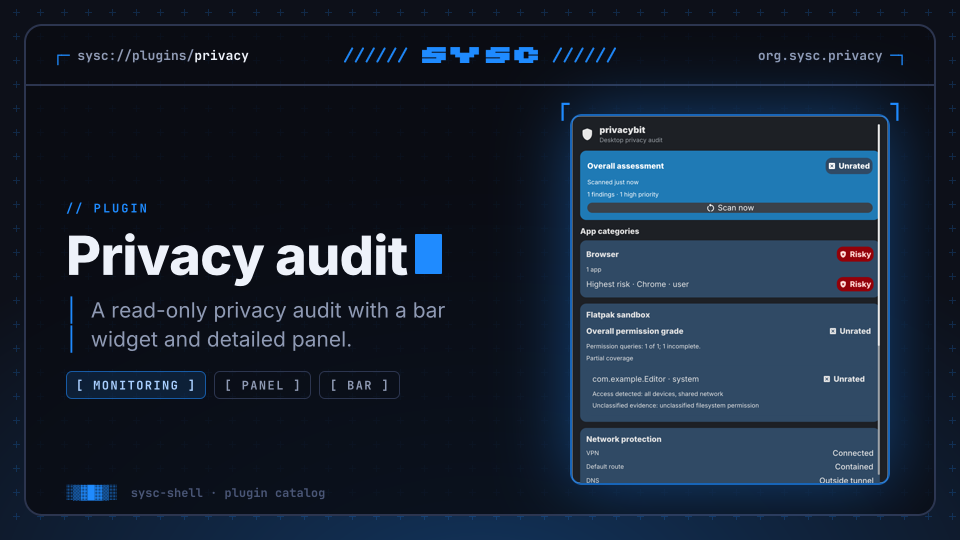
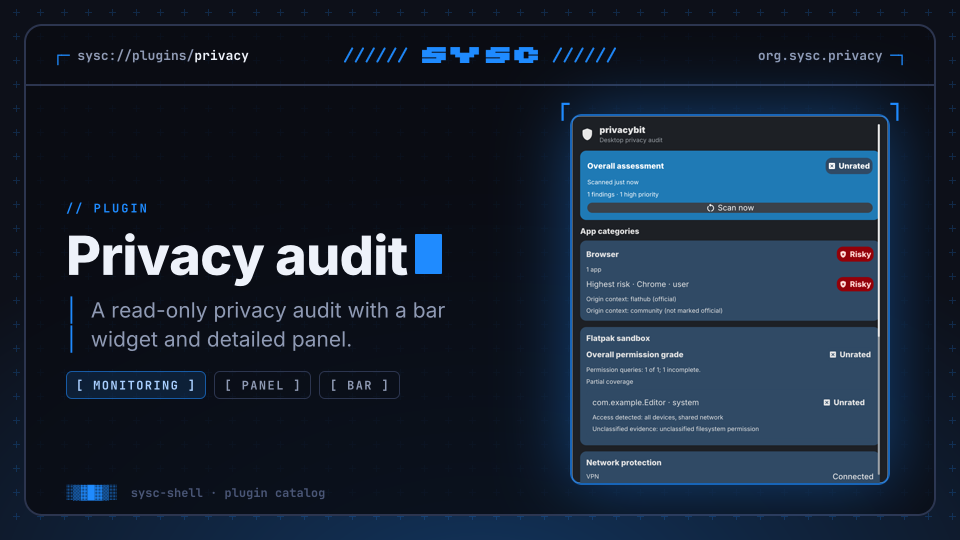
feat(privacy): show origin context

Changed region(s): [[0.5938, 0.5333, 0.9375, 0.9185], [0.8438, 0.6519, 0.9062, 0.7111]]

diff --git a/plugins/privacy/snapshot_test.go b/plugins/privacy/snapshot_test.go
@@ -9,6 +9,7 @@ import (
 	"strings"
 	"testing"
 	"time"
+	"unicode/utf8"
 )
 
 func TestParseAuditOutputBoundsListsAndPreservesUnknownTelemetry(t *testing.T) {
@@ -79,6 +80,92 @@ func TestParseAuditOutputBoundsListsAndPreservesUnknownTelemetry(t *testing.T) {
 	}
 }
 
+func TestParseAuditOutputProjectsBoundedOrigins(t *testing.T) {
+	const maxOrigins = 8
+	const maxOriginBytes = 80
+	type inputOrigin struct {
+		Source   string `json:"source"`
+		Official bool   `json:"official"`
+	}
+	origins := []inputOrigin{
+		{Source: "alpha", Official: true},
+		{Source: "alpha", Official: true},
+		{Source: "alpha", Official: false},
+		{Source: "repo\nname"},
+	}
+	for i := range 8 {
+		origins = append(origins, inputOrigin{Source: fmt.Sprintf("repo-%02d", i), Official: true})
+	}
+	origins = append(origins, inputOrigin{Source: "0" + strings.Repeat("界", 40)})
+	encodedOrigins, err := json.Marshal(origins)
+	if err != nil {
+		t.Fatal(err)
+	}
+	input := fmt.Sprintf(`{"t":"done","snapshot":{"schema":1,"available":true,"generated_at":"2026-10-23T10:00:00Z","overall":{"grade":"green"},"categories":[{"id":"browser","name":"Browser","grade":"green","installed":[{"id":"brave-origin","name":"Brave Origin","grade":"green","origins":%s,"origins_shown":12,"origins_total":12}]}]}}`, encodedOrigins)
+	snapshot, err := ParseAuditOutput([]byte(input))
+	if err != nil {
+		t.Fatal(err)
+	}
+	encoded, err := json.Marshal(snapshot)
+	if err != nil {
+		t.Fatal(err)
+	}
+	var got struct {
+		Categories []struct {
+			Installed []struct {
+				Origins   []inputOrigin `json:"origins"`
+				Shown     int           `json:"origins_shown"`
+				Total     int           `json:"origins_total"`
+				Truncated bool          `json:"origins_truncated"`
+			} `json:"installed"`
+		} `json:"categories"`
+	}
+	if err := json.Unmarshal(encoded, &got); err != nil {
+		t.Fatal(err)
+	}
+	app := got.Categories[0].Installed[0]
+	if len(app.Origins) != maxOrigins || app.Shown != maxOrigins || app.Total != 12 || !app.Truncated {
+		t.Fatalf("origin projection = %+v, want %d shown of 12 and truncated", app, maxOrigins)
+	}
+	if !strings.HasPrefix(app.Origins[0].Source, "0") || !utf8.ValidString(app.Origins[0].Source) || len(app.Origins[0].Source) > maxOriginBytes {
+		t.Fatalf("long origin was not safely bounded: %q (%d bytes)", app.Origins[0].Source, len(app.Origins[0].Source))
+	}
+	foundSanitized := false
+	alphaStatuses := map[bool]bool{}
+	for _, origin := range app.Origins {
+		if origin.Source == "repo name" {
+			foundSanitized = true
+		}
+		if origin.Source == "alpha" {
+			alphaStatuses[origin.Official] = true
+		}
+		if !utf8.ValidString(origin.Source) || len(origin.Source) > maxOriginBytes || strings.ContainsAny(origin.Source, "\n\r\x1b") {
+			t.Errorf("unsafe origin source %q (%d bytes)", origin.Source, len(origin.Source))
+		}
+	}
+	if !foundSanitized {
+		t.Fatalf("newline in origin source was not sanitized: %+v", app.Origins)
+	}
+	if !alphaStatuses[true] || !alphaStatuses[false] {
+		t.Fatalf("origin status variants collapsed: %+v", app.Origins)
+	}
+}
+
+func TestParseAuditOutputAcceptsLegacyAppWithoutOriginContext(t *testing.T) {
+	input := `{"t":"done","snapshot":{"schema":1,"available":true,"generated_at":"2026-10-23T10:00:00Z","overall":{"grade":"green"},"categories":[{"id":"browser","name":"Browser","grade":"green","installed":[{"id":"firefox","name":"Firefox","grade":"green"}]}]}}`
+	snapshot, err := ParseAuditOutput([]byte(input))
+	if err != nil {
+		t.Fatal(err)
+	}
+	encoded, err := json.Marshal(snapshot)
+	if err != nil {
+		t.Fatal(err)
+	}
+	if strings.Contains(string(encoded), `"origins"`) {
+		t.Fatalf("legacy app without provenance gained an origin: %s", encoded)
+	}
+}
+
 func TestParseAuditOutputBoundsFlatpakSandboxEvidence(t *testing.T) {
 	labels := make([]string, maxSandboxEvidence+2)
 	for i := range labels {
@@ -135,6 +222,7 @@ func TestParseAuditOutputRejectsInvalidAndFutureSnapshots(t *testing.T) {
 		"invalid grade":                              `{"t":"done","snapshot":{"schema":1,"available":true,"generated_at":"2026-10-20T12:00:00Z","overall":{"grade":"perfect"}}}`,
 		"invalid sandbox grade":                      `{"t":"done","snapshot":{"schema":1,"available":true,"generated_at":"2026-10-20T12:00:00Z","overall":{"grade":"unknown"},"sandbox":{"applicable":true,"grade":"perfect"}}}`,
 		"invalid sandbox app grade":                  `{"t":"done","snapshot":{"schema":1,"available":true,"generated_at":"2026-10-20T12:00:00Z","overall":{"grade":"unknown"},"sandbox":{"applicable":true,"grade":"unknown","apps":[{"id":"com.example.App","scope":"user","grade":"perfect"}]}}}`,
+		"negative app origin count":                  `{"t":"done","snapshot":{"schema":1,"available":true,"generated_at":"2026-10-20T12:00:00Z","overall":{"grade":"green"},"categories":[{"id":"browser","name":"Browser","grade":"green","installed":[{"id":"firefox","name":"Firefox","grade":"green","origins_total":-1}]}]}}`,
 		"negative sandbox count":                     `{"t":"done","snapshot":{"schema":1,"available":true,"generated_at":"2026-10-20T12:00:00Z","overall":{"grade":"unknown"},"sandbox":{"applicable":true,"grade":"unknown","apps_total":-1}}}`,
 		"green sandbox with incomplete coverage":     `{"t":"done","snapshot":{"schema":1,"available":true,"generated_at":"2026-10-20T12:00:00Z","overall":{"grade":"green"},"sandbox":{"applicable":true,"grade":"green","apps":[{"id":"com.example.App","scope":"user","grade":"green"}],"apps_shown":1,"apps_total":2,"apps_truncated":true,"apps_checked":1,"apps_incomplete":1}}}`,
 		"red sandbox with incomplete coverage":       `{"t":"done","snapshot":{"schema":1,"available":true,"generated_at":"2026-10-20T12:00:00Z","overall":{"grade":"red"},"sandbox":{"applicable":true,"grade":"red","apps":[{"id":"com.example.App","scope":"user","grade":"red","grants":["host filesystem"]}],"apps_shown":1,"apps_total":2,"apps_truncated":true,"apps_checked":1,"apps_incomplete":1,"partial_coverage":true}}}`,

diff --git a/plugins/privacy/snapshot.go b/plugins/privacy/snapshot.go
@@ -27,6 +27,8 @@ const (
 	maxReduced           = 12
 	maxSandboxApps       = 4
 	maxSandboxEvidence   = 8
+	maxOriginsPerApp     = 8
+	maxOriginSourceBytes = 80
 	maxLabelBytes        = 160
 	maxSummaryBytes      = 320
 )
@@ -125,10 +127,19 @@ type Category struct {
 }
 
 type App struct {
-	ID    string `json:"id,omitempty"`
-	Name  string `json:"name"`
-	Grade string `json:"grade"`
-	Scope string `json:"scope,omitempty"`
+	ID               string      `json:"id,omitempty"`
+	Name             string      `json:"name"`
+	Grade            string      `json:"grade"`
+	Scope            string      `json:"scope,omitempty"`
+	Origins          []AppOrigin `json:"origins,omitempty"`
+	OriginsShown     int         `json:"origins_shown,omitempty"`
+	OriginsTotal     int         `json:"origins_total,omitempty"`
+	OriginsTruncated bool        `json:"origins_truncated,omitempty"`
+}
+
+type AppOrigin struct {
+	Source   string `json:"source"`
+	Official bool   `json:"official"`
 }
 
 type Finding struct {
@@ -336,13 +347,20 @@ func ParseAuditOutput(data []byte) (Snapshot, error) {
 			if !validGrade(app.Grade) {
 				return Snapshot{}, fmt.Errorf("privacybit returned invalid grade %q for app %q", app.Grade, app.Name)
 			}
-			projected.Installed = append(projected.Installed, projectApp(app))
+			projectedApp, err := projectApp(app)
+			if err != nil {
+				return Snapshot{}, fmt.Errorf("privacybit returned invalid origin context for app %q: %w", app.Name, err)
+			}
+			projected.Installed = append(projected.Installed, projectedApp)
 		}
 		if category.Worst != nil {
 			if !validGrade(category.Worst.Grade) {
 				return Snapshot{}, fmt.Errorf("privacybit returned invalid grade %q for worst app %q", category.Worst.Grade, category.Worst.Name)
 			}
-			worst := projectApp(*category.Worst)
+			worst, err := projectApp(*category.Worst)
+			if err != nil {
+				return Snapshot{}, fmt.Errorf("privacybit returned invalid origin context for worst app %q: %w", category.Worst.Name, err)
+			}
 			projected.Worst = &worst
 		}
 		projected.InstalledTotal = max(projected.InstalledTotal, len(projected.Installed))
@@ -443,8 +461,53 @@ func ParseAuditOutput(data []byte) (Snapshot, error) {
 	return out, nil
 }
 
-func projectApp(app App) App {
-	return App{ID: text(app.ID, maxLabelBytes), Name: text(app.Name, maxLabelBytes), Grade: app.Grade, Scope: text(app.Scope, maxLabelBytes)}
+func projectApp(app App) (App, error) {
+	if app.OriginsShown < 0 || app.OriginsTotal < 0 {
+		return App{}, errors.New("negative origin count")
+	}
+	out := App{ID: text(app.ID, maxLabelBytes), Name: text(app.Name, maxLabelBytes), Grade: app.Grade, Scope: text(app.Scope, maxLabelBytes)}
+	seen := make(map[AppOrigin]struct{}, len(app.Origins))
+	for _, origin := range app.Origins {
+		origin.Source = originSource(origin.Source)
+		if origin.Source == "" {
+			continue
+		}
+		if _, exists := seen[origin]; exists {
+			continue
+		}
+		seen[origin] = struct{}{}
+		out.Origins = append(out.Origins, origin)
+	}
+	sort.Slice(out.Origins, func(i, j int) bool {
+		if out.Origins[i].Source != out.Origins[j].Source {
+			return out.Origins[i].Source < out.Origins[j].Source
+		}
+		return !out.Origins[i].Official && out.Origins[j].Official
+	})
+	if app.OriginsShown > 0 && app.OriginsShown < len(out.Origins) {
+		return App{}, errors.New("origin shown count is below its list length")
+	}
+	out.OriginsTotal = max(app.OriginsTotal, len(out.Origins))
+	if len(out.Origins) > maxOriginsPerApp {
+		out.Origins = out.Origins[:maxOriginsPerApp]
+		out.OriginsTruncated = true
+	}
+	out.OriginsShown = len(out.Origins)
+	out.OriginsTruncated = out.OriginsTruncated || app.OriginsTruncated || out.OriginsShown < out.OriginsTotal
+	return out, nil
+}
+
+func originSource(value string) string {
+	value = strings.ToValidUTF8(value, "�")
+	var clean strings.Builder
+	for _, r := range value {
+		if unicode.IsPrint(r) {
+			clean.WriteRune(r)
+		} else {
+			clean.WriteByte(' ')
+		}
+	}
+	return text(strings.Join(strings.Fields(clean.String()), " "), maxOriginSourceBytes)
 }
 
 func projectSandbox(input auditSandbox) (*Sandbox, error) {

diff --git a/plugins/privacy/view_test.go b/plugins/privacy/view_test.go
@@ -210,6 +210,41 @@ func TestPrivacyPanelShowsSeparateFlatpakSandboxGradesAndCoverage(t *testing.T) 
 	}
 }
 
+func TestPrivacyPanelShowsOriginAsContext(t *testing.T) {
+	now := time.Date(2026, 10, 23, 10, 0, 0, 0, time.UTC)
+	input := `{"t":"done","snapshot":{"schema":1,"available":true,"generated_at":"2026-10-23T10:00:00Z","overall":{"grade":"green"},"categories":[{"id":"browser","name":"Browser","grade":"green","installed":[{"id":"brave-origin","name":"Brave Origin","grade":"green","origins":[{"source":"flathub","official":true},{"source":"aur","official":false}],"origins_shown":2,"origins_total":2}]}]}}`
+	snapshot, err := ParseAuditOutput([]byte(input))
+	if err != nil {
+		t.Fatal(err)
+	}
+	root := PanelTree(snapshot, now, false, "")
+	for _, want := range []string{"Origin context", "flathub (official)", "aur (not marked official)"} {
+		if !treeHasText(root, want) {
+			t.Errorf("panel omitted %q", want)
+		}
+	}
+	if got := snapshot.Categories[0].Installed[0].Grade; got != "green" {
+		t.Fatalf("origin context changed app grade to %q", got)
+	}
+}
+
+func TestPrivacyPanelShowsOriginForWorstAppOutsideTheVisibleList(t *testing.T) {
+	now := time.Date(2026, 10, 23, 10, 0, 0, 0, time.UTC)
+	snapshot := testSnapshot("green", now)
+	snapshot.Categories[0].Installed = []App{{ID: "shown", Name: "Shown app", Grade: "green"}}
+	snapshot.Categories[0].InstalledShown = 1
+	snapshot.Categories[0].InstalledTotal = 5
+	snapshot.Categories[0].InstalledTruncated = true
+	snapshot.Categories[0].Worst = &App{
+		ID: "hidden", Name: "Highest risk app", Grade: "red",
+		Origins: []AppOrigin{{Source: "community", Official: false}}, OriginsShown: 1, OriginsTotal: 1,
+	}
+	root := PanelTree(snapshot, now, false, "")
+	if !treeHasText(root, "Origin context: community (not marked official)") {
+		t.Fatal("panel omitted origin context for its separately displayed highest-risk app")
+	}
+}
+
 func TestPrivacyPanelExplainsWhenNoFlatpakAppsAreInstalled(t *testing.T) {
 	now := time.Date(2026, 10, 23, 10, 0, 0, 0, time.UTC)
 	input := `{"t":"done","snapshot":{"schema":1,"available":true,"generated_at":"2026-10-23T10:00:00Z","overall":{"grade":"green"},"sandbox":{"applicable":false,"grade":"unknown","apps":[],"apps_shown":0,"apps_total":0,"reason":"No Flatpak applications are installed."}}}`

diff --git a/plugins/privacy/view.go b/plugins/privacy/view.go
@@ -182,6 +182,7 @@ func categorySection(snapshot Snapshot) *v1.Node {
 				{Kind: v1.KindText, Text: appName, MaxWidth: 400},
 				gradeChip(app.Grade, fmt.Sprintf("grade-app-%d-%d", categoryIndex, appIndex)),
 			}})
+			rows = appendOriginContext(rows, app)
 		}
 		if category.Worst != nil && !worstShown {
 			worstName := text(category.Worst.Name, maxLabelBytes)
@@ -195,6 +196,7 @@ func categorySection(snapshot Snapshot) *v1.Node {
 					gradeChip(category.Worst.Grade, fmt.Sprintf("grade-app-worst-%d", categoryIndex)),
 				}},
 			)
+			rows = appendOriginContext(rows, *category.Worst)
 		}
 		if category.InstalledTruncated {
 			rows = append(rows, &v1.Node{Kind: v1.KindText, Text: fmt.Sprintf("Showing %d of %d apps.", category.InstalledShown, category.InstalledTotal), Size: "caption", Tone: v1.ToneSubtle})
@@ -205,6 +207,27 @@ func categorySection(snapshot Snapshot) *v1.Node {
 		children = append(children, &v1.Node{Kind: v1.KindText, Text: fmt.Sprintf("Showing %d of %d categories.", snapshot.CategoriesShown, snapshot.CategoriesTotal), Size: "caption", Tone: v1.ToneSubtle})
 	}
 	return &v1.Node{Kind: v1.KindColumn, Key: "privacy-categories", Gap: 8, Children: children}
+}
+
+func originStatus(official bool) string {
+	if official {
+		return "official"
+	}
+	return "not marked official"
+}
+
+func appendOriginContext(rows []*v1.Node, app App) []*v1.Node {
+	for _, origin := range app.Origins {
+		rows = append(rows, &v1.Node{Kind: v1.KindText,
+			Text: "Origin context: " + text(origin.Source, maxOriginSourceBytes) + " (" + originStatus(origin.Official) + ")",
+			Size: "caption", Tone: v1.ToneSubtle})
+	}
+	if app.OriginsTruncated {
+		rows = append(rows, &v1.Node{Kind: v1.KindText,
+			Text: fmt.Sprintf("Showing %d of %d origins.", app.OriginsShown, app.OriginsTotal),
+			Size: "caption", Tone: v1.ToneSubtle})
+	}
+	return rows
 }
 
 func sandboxSection(sandbox *Sandbox) *v1.Node {

diff --git a/plugins/privacy/capture_test.go b/plugins/privacy/capture_test.go
@@ -14,6 +14,9 @@ import (
 func TestCapturePanel(t *testing.T) {
 	now := time.Date(2026, 10, 23, 10, 0, 0, 0, time.UTC)
 	snapshot := testSnapshot("unknown", now)
+	app := &snapshot.Categories[0].Installed[0]
+	app.Origins = []AppOrigin{{Source: "flathub", Official: true}, {Source: "community"}}
+	app.OriginsShown, app.OriginsTotal = len(app.Origins), len(app.Origins)
 	snapshot.Sandbox = &Sandbox{
 		Applicable: true, Grade: "unknown", AppsTotal: 1, AppsChecked: 1,
 		AppsIncomplete: 1, PartialCoverage: true,

diff --git a/plugins/privacy/README.md b/plugins/privacy/README.md
@@ -11,12 +11,13 @@ In **Settings → Bar**, add **Privacybit** from the plugin widgets. Click its
 shield and grade label in the bar to open the panel. The Control Centre's
 **Privacy** page also has an **Open full audit** button.
 
-The panel shows the overall grade, app categories, a separate Flatpak sandbox
-grade with bounded per-installation evidence, VPN observations, findings, and
-coverage limits. When the app list is capped, highest-risk copies appear first.
-Use **Scan now** to refresh the audit. The bar and Control Centre read the same
-published result. Older or unavailable results appear as **Unrated**, and
-capped lists say how many entries are hidden.
+The panel shows the overall grade, app categories, origin context, a separate
+Flatpak sandbox grade with bounded per-installation evidence, VPN observations,
+findings, and coverage limits. Origin names include whether each source is
+marked official; they do not change grades. When the app list is capped,
+highest-risk copies appear first. Use **Scan now** to refresh the audit. The bar
+and Control Centre read the same published result. Older or unavailable results
+appear as **Unrated**, and capped lists say how many entries are hidden.
 
 Install `privacybit` separately. The plugin checks `PATH`, then
 `~/.local/bin/privacybit`; if neither is executable, it shows an explicit
